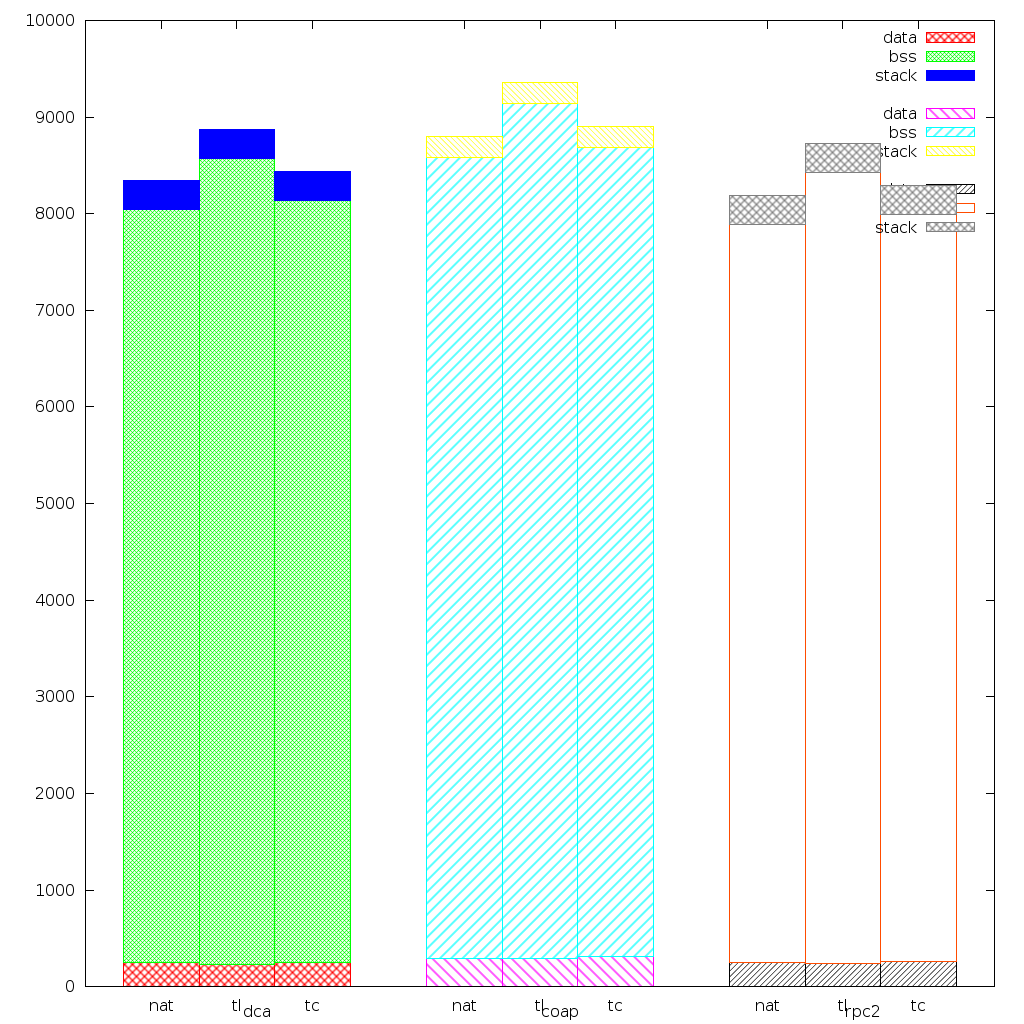
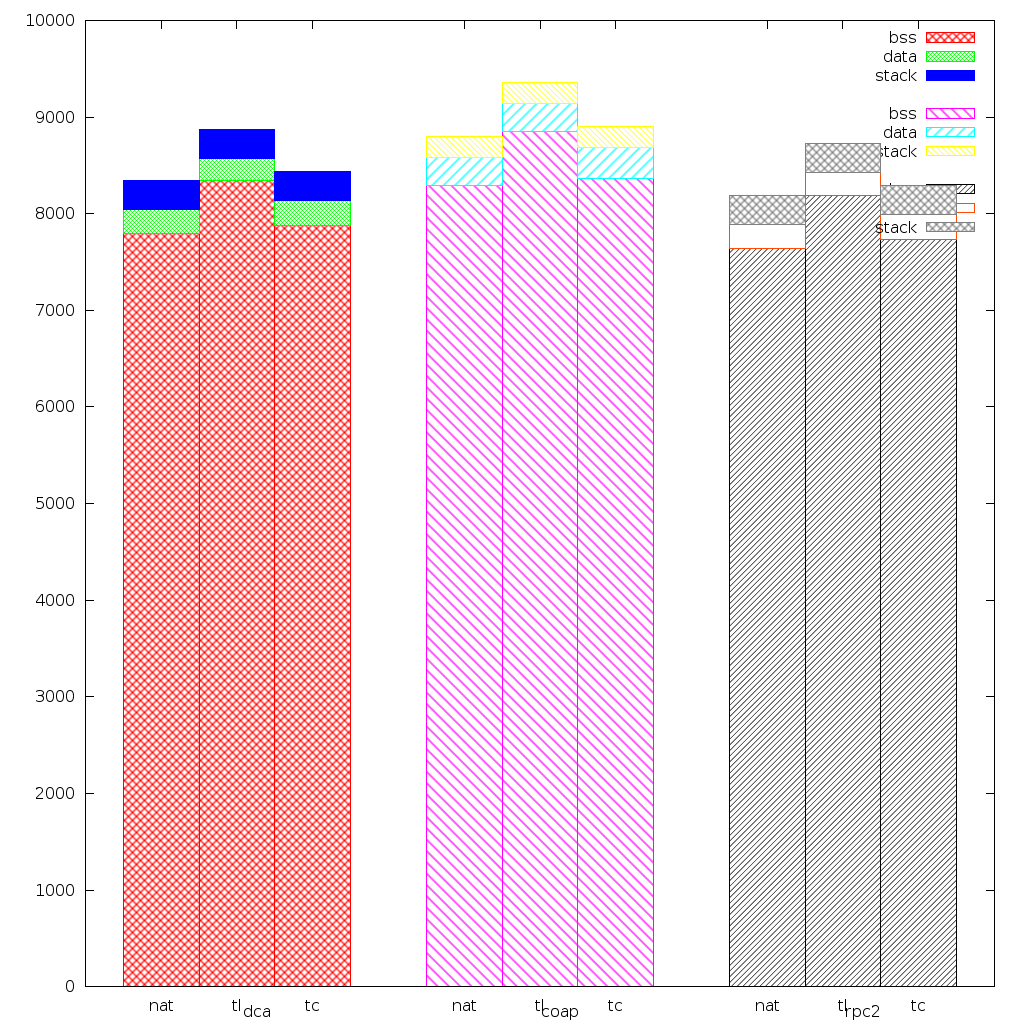
improved text and ram plots

diff --git a/applications/contiki/plots/text.py b/applications/contiki/plots/text.py
@@ -1,0 +1,44 @@
+import gnuplot
+import StringIO
+import os
+
+script = """
+set terminal pngcairo size 1024, 1024
+set output '%(outfile)s.png'
+         
+set style histogram rowstacked title  offset character 2, 0.25, 0
+set style data histograms
+set style fill pattern 1 border
+set palette gray 
+set datafile missing '-'
+
+set auto x
+set yrange [0:*]
+
+plot newhistogram "dca", '%(infile)s' using 2:xtic(1) t col, '' u 3 t col, newhistogram "coap", '' u 4:xtic(1) t col, '' u 5 t col, newhistogram "rpc2", '' u 6:xtic(1) t col, '' u 7 t col
+"""
+
+def plot(path, values_, (apps_, variants_, measurements_)):
+    assert "text" in measurements_
+    
+    apps = ["dca", "coap", "rpc2"]
+    assert set(apps).issubset(set(apps_)), str(apps_)
+
+    variants = ["nat", "tl", "tc", "pal"]
+    assert set(variants).issubset(set(variants_)), str(variants_)
+
+    variants.remove("pal")
+    measurements = ["text", "pal"]
+    values = {}
+    for a in apps:
+        for v in variants:
+            if v == "tc":
+                values[(a, v, "text")] = str(values_[(a, v, "text")] - values_[(a, "pal", "text")])
+                values[(a, v, "pal")] = str(values_[(a, "pal", "text")])
+            else:
+                values[(a, v, "text")] = str(values_[(a, v, "text")])
+                values[(a, v, "pal")] = "-"
+
+    plotdata = gnuplot.stacked_grouped_boxes(values, apps, variants, measurements)
+    config = {'outfile': os.path.join(path, "text")}
+    gnuplot.plot(script, config, plotdata)

diff --git a/applications/contiki/plots/ram.py b/applications/contiki/plots/ram.py
@@ -18,7 +18,7 @@ plot newhistogram "dca", '%(infile)s' using 2:xtic(1) t col, '' u 3 t col, '' u 
 """
 
 def plot(path, values, (apps_, variants_, measurements_)):
-    measurements = ["data", "bss", "stack"]
+    measurements = ["bss", "data", "stack"]
     assert set(measurements).issubset(measurements_), str(measurements_)
 
     apps = ["dca", "coap", "rpc2"]
